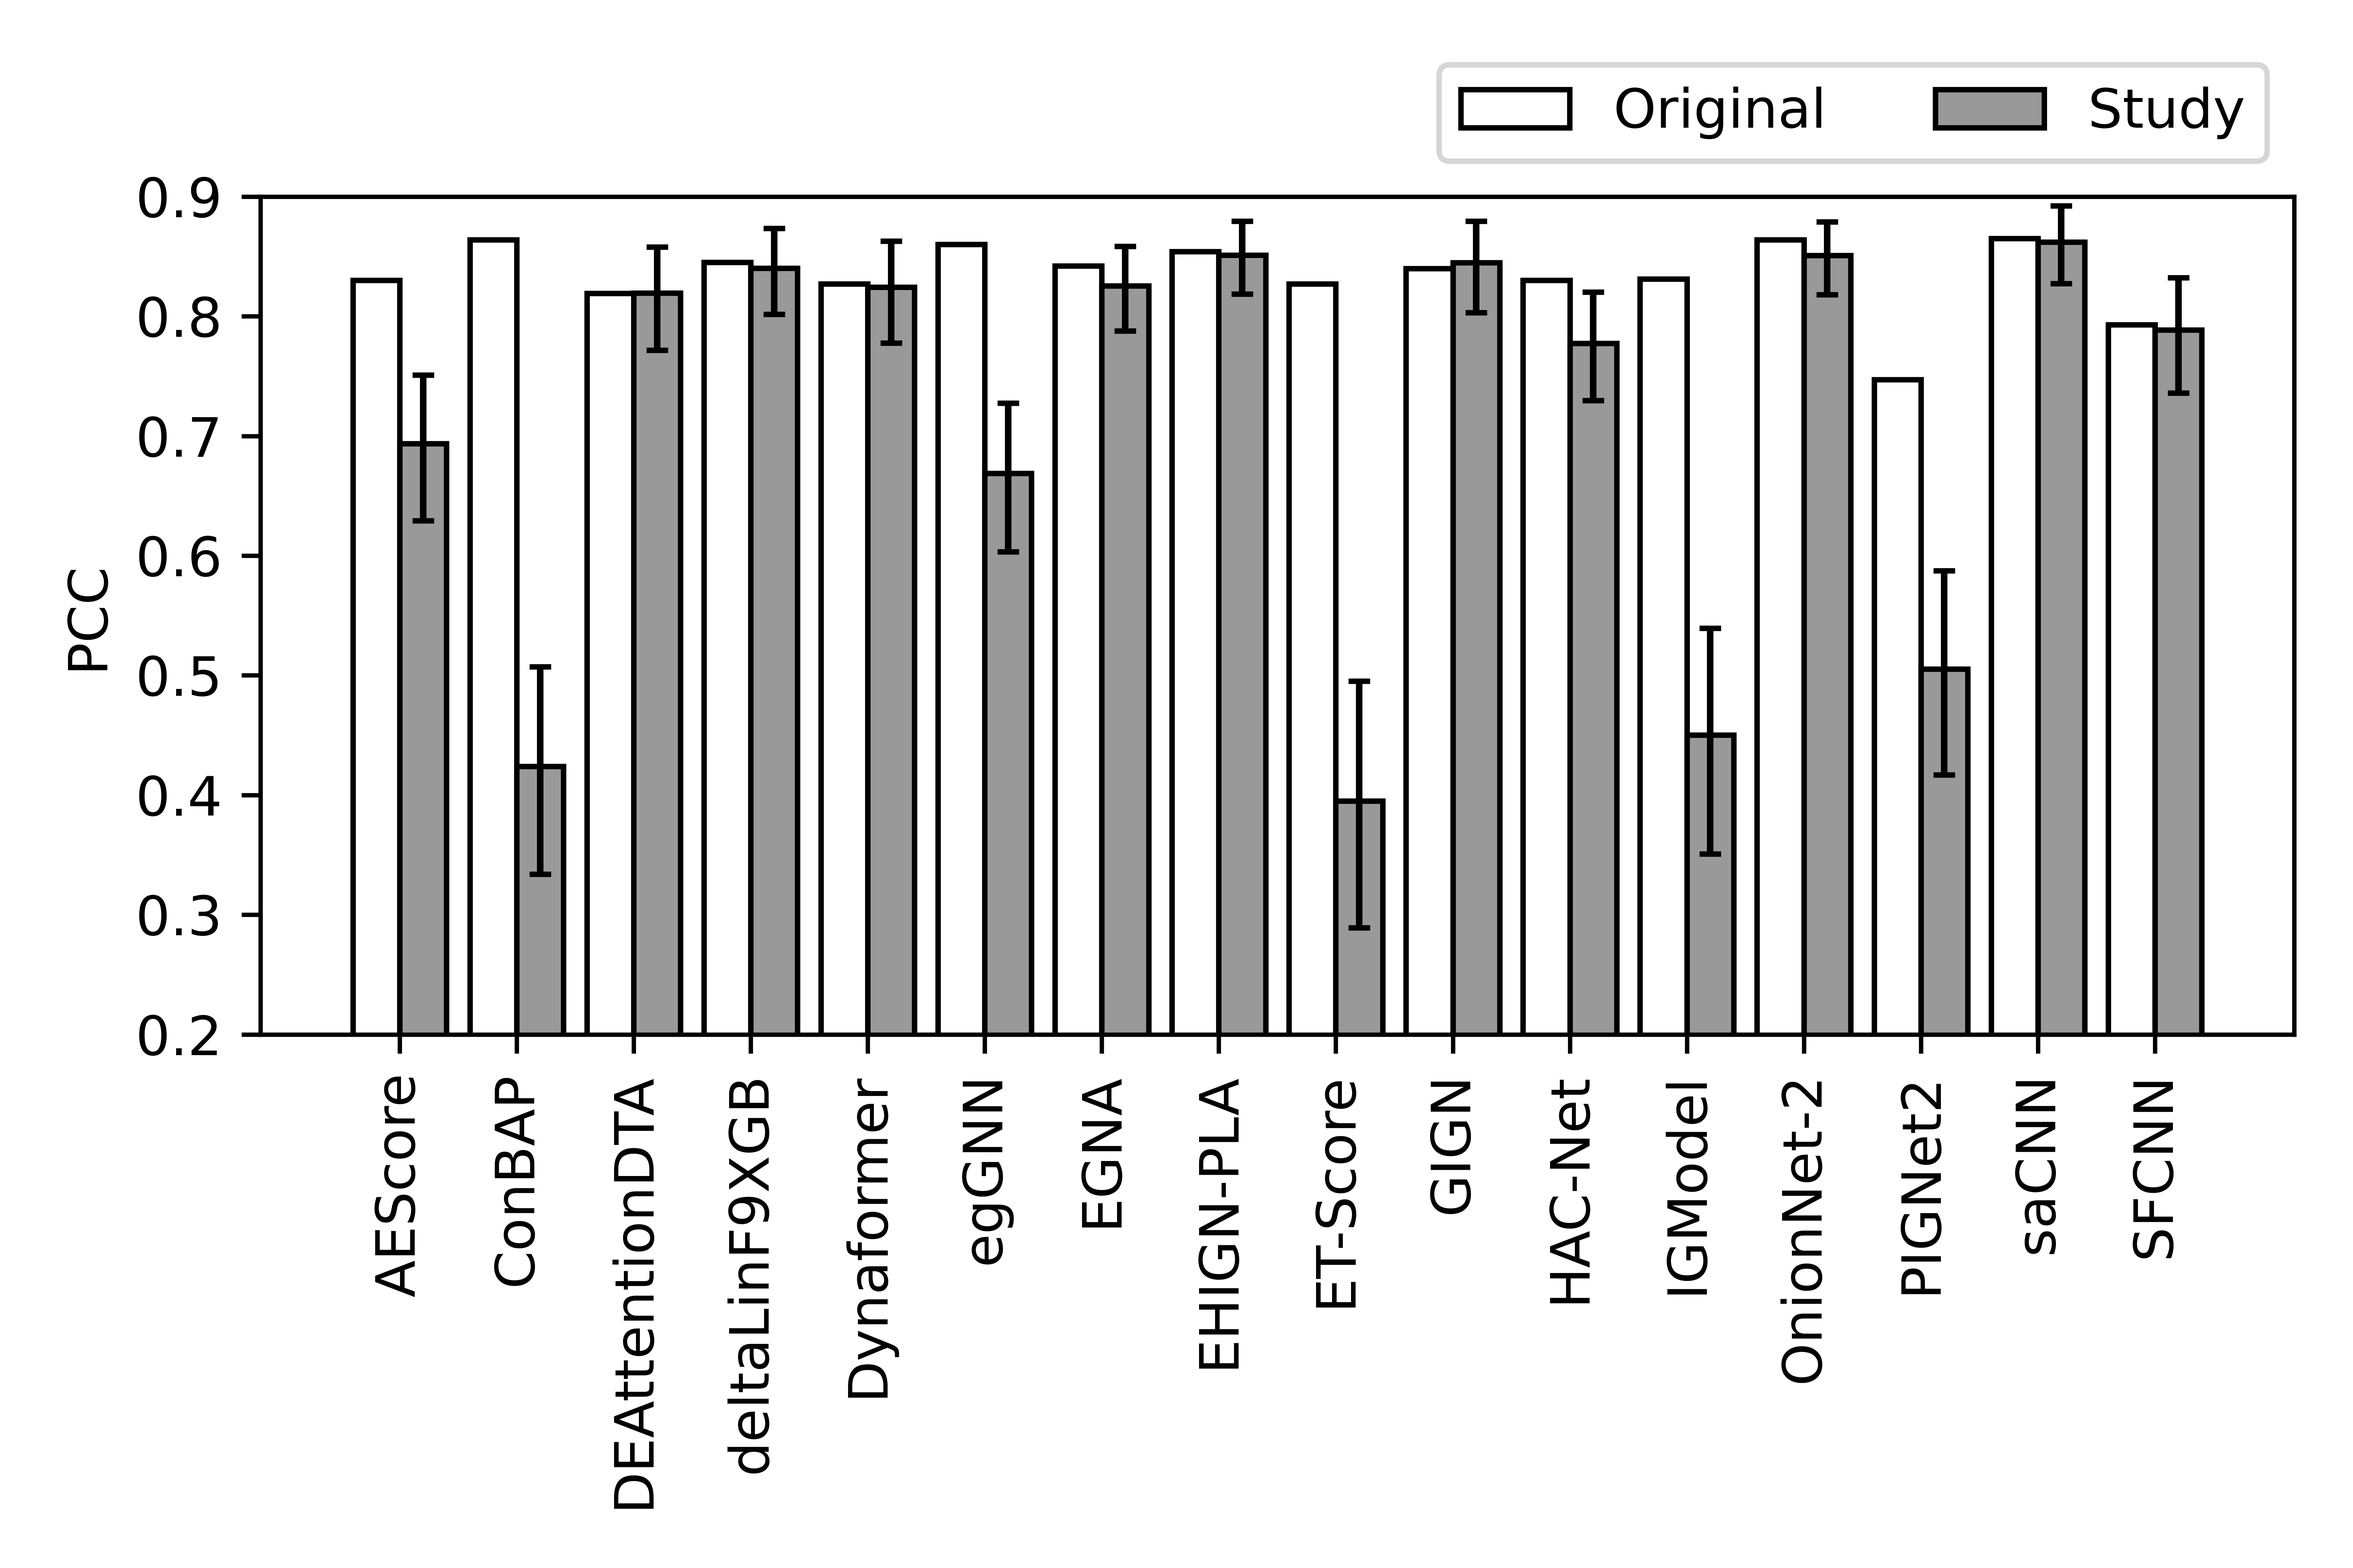
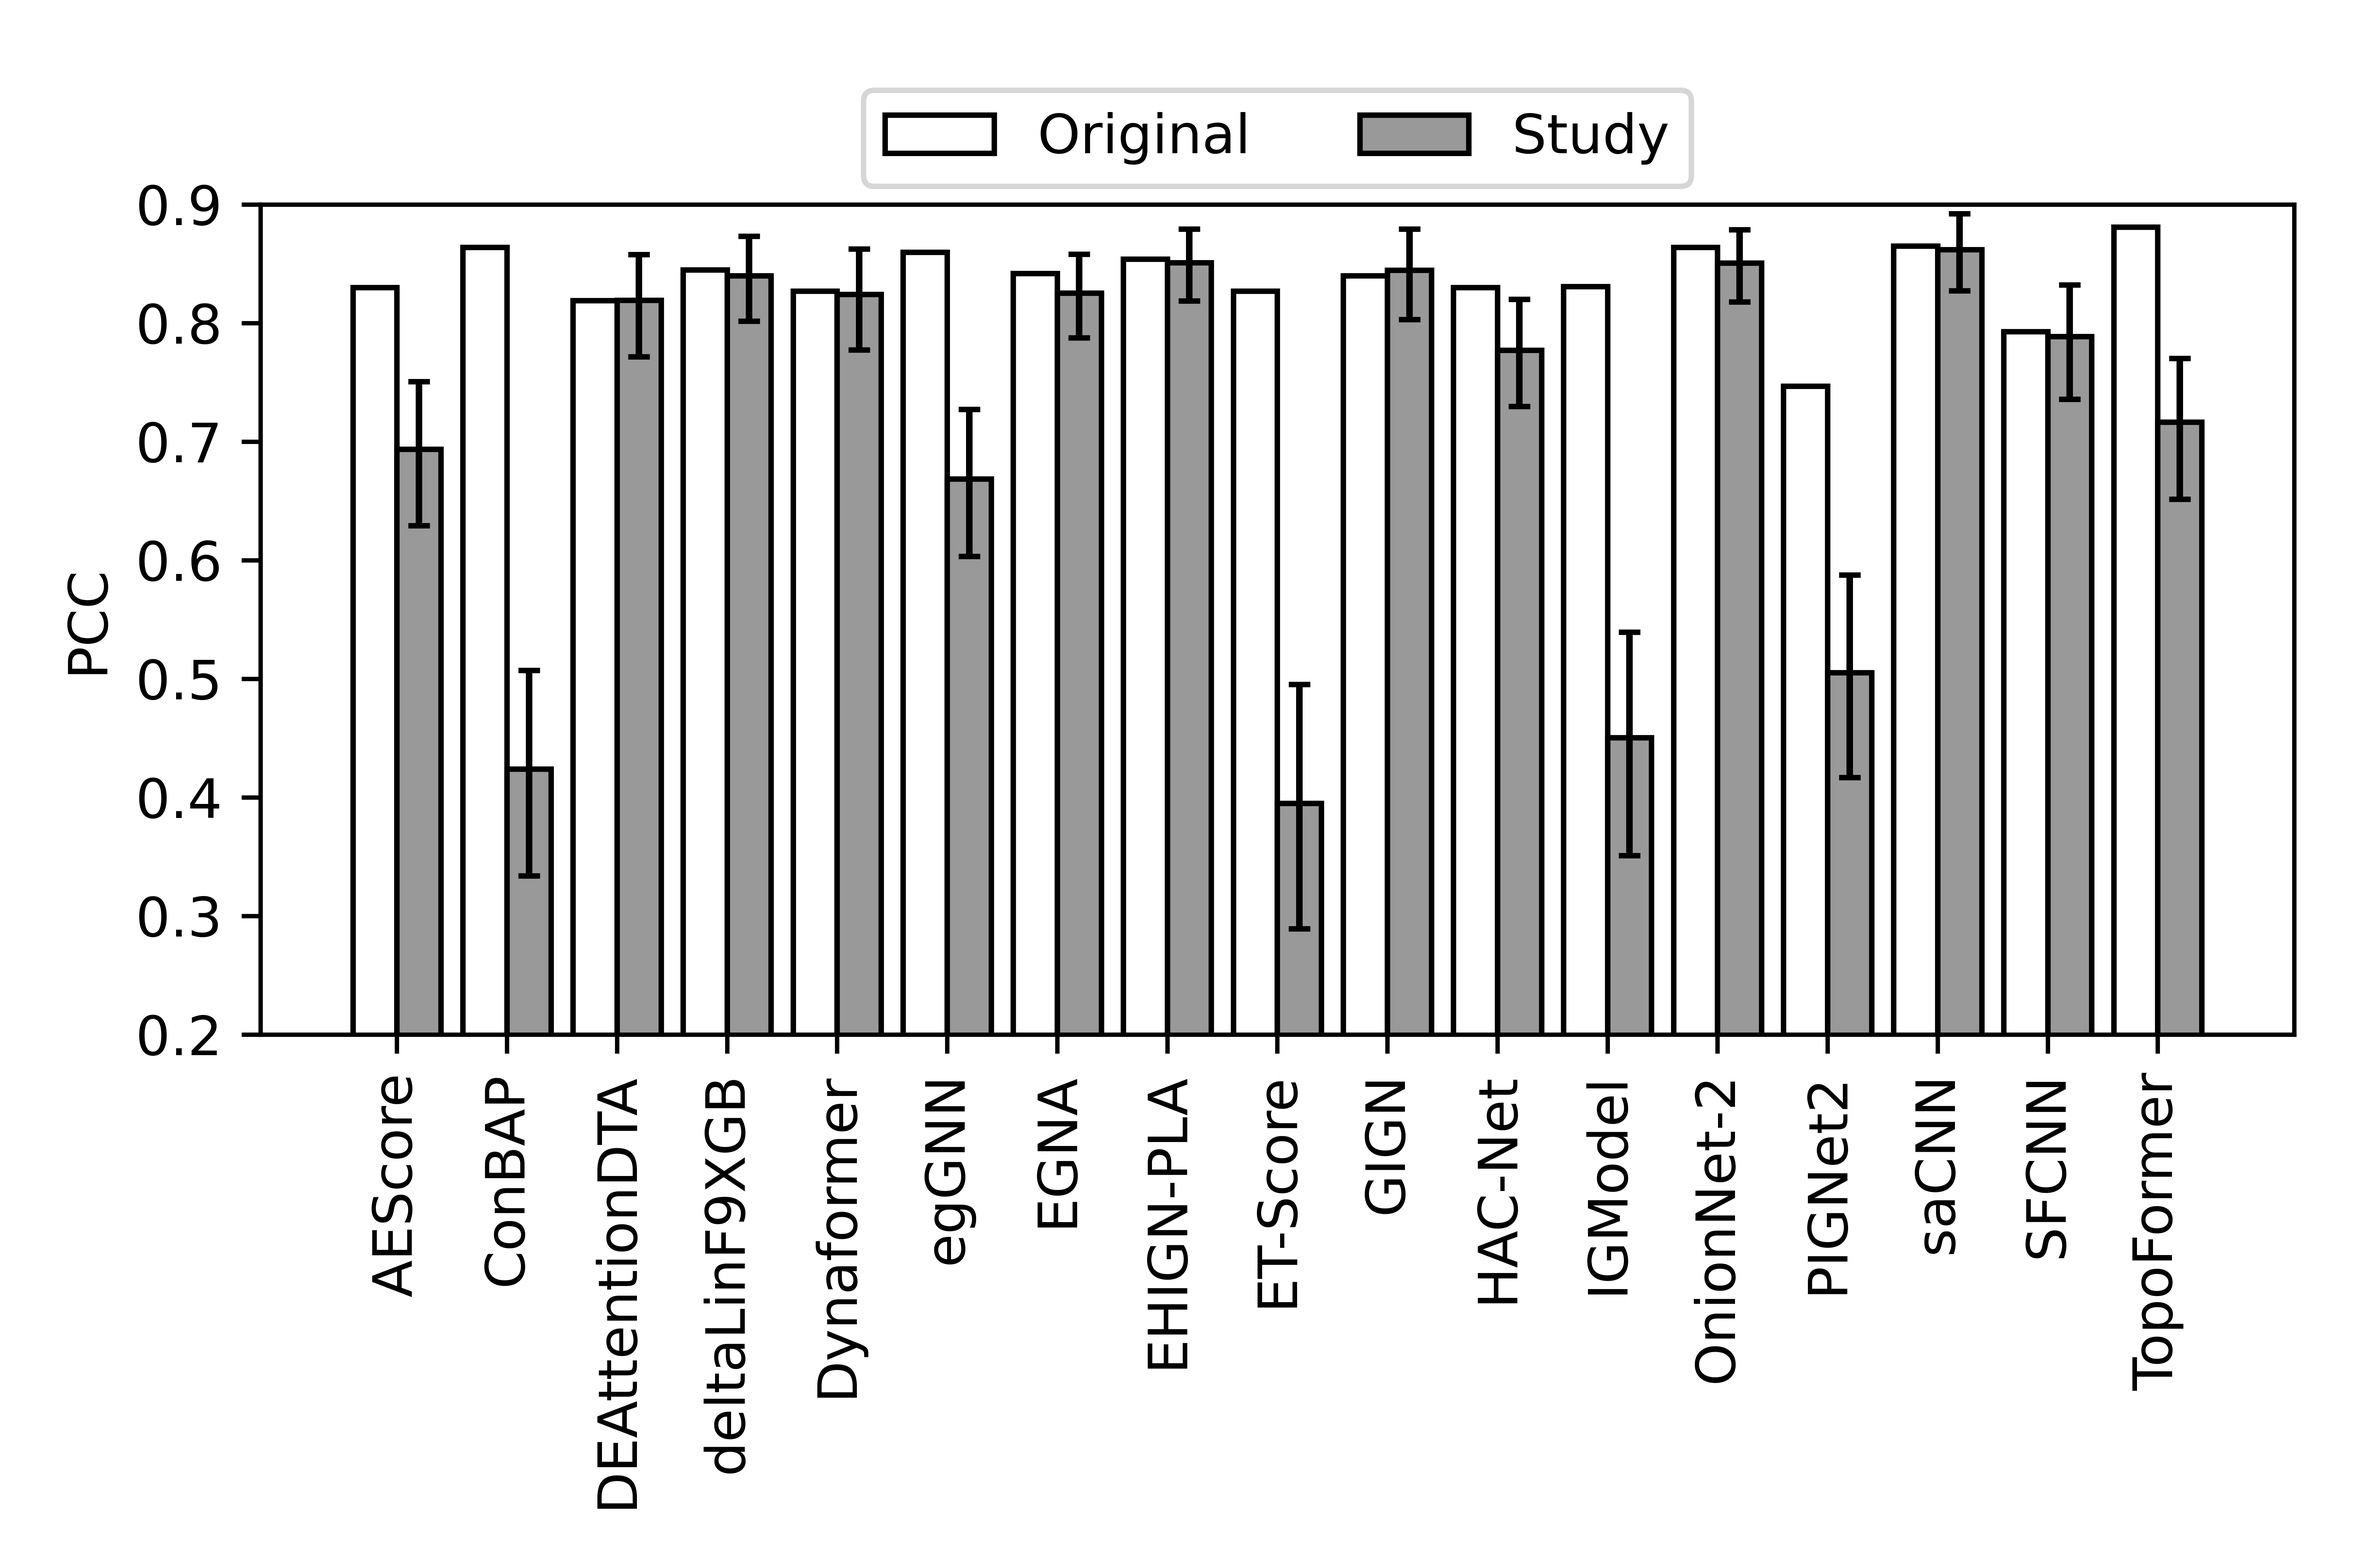
Updated plotting and analysis scripts

diff --git a/analysis/performance_plot.py b/analysis/performance_plot.py
@@ -11,7 +11,7 @@ from scipy import stats
 out_dir = '/mnt/research/woldring_lab/Members/Eaves/PLBAP_Reproducibility/analysis/results'
 preds_csv = os.path.join(out_dir, 'performance_bootstrap_summary.csv')
 # models = ['AEScore', 'ConBAP', 'DEAttentionDTA', 'Dynaformer', 'egGNN', 'EGNA', 'EHIGN-PLA', 'ET-Score', 'GIGN', 'HAC-Net', 'IGModel', 'OnionNet-2', 'PIGNet2', 'SFCNN']
-models = ['AEScore', 'ConBAP', 'DEAttentionDTA', 'deltaLinF9XGB', 'Dynaformer', 'egGNN', 'EGNA', 'EHIGN-PLA', 'ET-Score', 'GIGN', 'HAC-Net', 'IGModel', 'OnionNet-2', 'PIGNet2', 'saCNN', 'SFCNN']
+models = ['AEScore', 'ConBAP', 'DEAttentionDTA', 'deltaLinF9XGB', 'Dynaformer', 'egGNN', 'EGNA', 'EHIGN-PLA', 'ET-Score', 'GIGN', 'HAC-Net', 'IGModel', 'OnionNet-2', 'PIGNet2', 'saCNN', 'SFCNN', 'TopoFormer']
 hue_order = ['Original', 'Study']
 palette = ['w', '0.6']
 # palette = 'colorblind'
@@ -32,7 +32,8 @@ reported_pcc = [
     {'Model': 'OnionNet-2', 'PCC': 0.864},
     {'Model': 'PIGNet2', 'PCC': 0.747},
     {'Model': 'saCNN', 'PCC': 0.865},
-    {'Model': 'SFCNN', 'PCC': 0.793}
+    {'Model': 'SFCNN', 'PCC': 0.793},
+    {'Model': 'TopoFormer', 'PCC': 0.881}
 ]
 
 def add_ci_errorbars_for_hue(ax, ci_df, x_order, hue_order, hue_level, y_col='PCC', lo_col='ci_lo', hi_col='ci_hi'):
@@ -98,7 +99,7 @@ g = sns.barplot(
 plt.xlabel('')
 plt.xticks(rotation=90)
 plt.ylim((0.2,0.9))
-plt.legend(title='', ncol=2, loc='lower right', bbox_to_anchor=(1, 1.01))
+plt.legend(title='', ncol=2, loc='center', bbox_to_anchor=(0.5, 1.08))
 
 add_ci_errorbars_for_hue(ax=g, ci_df=pred_df, x_order=models, hue_order=hue_order,
     hue_level='Study', y_col='PCC', lo_col='ci_lo', hi_col='ci_hi'

diff --git a/analysis/compute_time_plot.py b/analysis/compute_time_plot.py
@@ -11,7 +11,7 @@ import matplotlib.cm as cm
 import matplotlib.colors as mcolors
 
 out_dir = '/mnt/research/woldring_lab/Members/Eaves/PLBAP_Reproducibility/analysis/results'
-performance_data = '/mnt/research/woldring_lab/Members/Eaves/PLBAP_Reproducibility/2026-03-24_CASF2016_AllModels_PredsAndTimes.csv'
+performance_data = '/mnt/research/woldring_lab/Members/Eaves/PLBAP_Reproducibility/2026-04-02_CASF2016_AllModels_PredsAndTimes.csv'
 models = ['AEScore', 'ConBAP', 'DEAttentionDTA', 'deltaLinF9XGB', 'Dynaformer', 'egGNN', 'EGNA', 'EHIGN-PLA', 'ET-Score', 'GIGN', 'HAC-Net', 'IGModel', 'OnionNet-2', 'PIGNet2', 'saCNN', 'SFCNN']
 rep_models = ['DEAttentionDTA', 'deltaLinF9XGB', 'Dynaformer', 'EGNA', 'EHIGN-PLA', 'GIGN', 'OnionNet-2', 'saCNN', 'SFCNN']
 palette = ['0.7', 'w']
@@ -84,7 +84,7 @@ fig, ax = plt.subplots(figsize=(8,4))
 rep_df = pred_df[pred_df['Status'] == 'Reproduced']
 
 norm = mcolors.Normalize(vmin=rep_df['Reported PCC'].min(), vmax=rep_df['Reported PCC'].max())
-mapper = cm.ScalarMappable(norm=norm, cmap='viridis')
+mapper = cm.ScalarMappable(norm=norm, cmap='binary')
 model_colors = [mapper.to_rgba(rep_df[rep_df['Model'] == m]['Reported PCC'].values[0]) for m in rep_models]
 
 g = sns.violinplot(data=rep_df, x='Model', y='t_tot_s', order=rep_models, hue='Reported PCC', log_scale=10, density_norm='width', linecolor='k', palette=model_colors, legend=False)
@@ -96,4 +96,4 @@ cbar = fig.colorbar(mapper, ax=ax)
 cbar.set_label('Reported PCC')
 
 plt.tight_layout()
-plt.savefig(f'{out_dir}/compute_time-ReproducedOnly-PCCcolor.png', dpi=1200)
+plt.savefig(f'{out_dir}/compute_time-ReproducedOnly-PCC-BW.png', dpi=1200)

diff --git a/analysis/aggregate_results.py b/analysis/aggregate_results.py
@@ -4,7 +4,7 @@ import os
 
 preds_dir = '/mnt/research/woldring_lab/Members/Eaves/PLBAP_Reproducibility/PLBAP_results'
 
-models = ['AEScore', 'ConBAP', 'DEAttentionDTA', 'delta_LinF9_XGB', 'Dynaformer', 'egGNN', 'EGNA', 'EHIGN-PLA', 'ET-Score', 'GIGN', 'HAC-Net', 'IGModel', 'OnionNet-2', 'PIGNet2', 'saCNN', 'SFCNN']
+models = ['AEScore', 'ConBAP', 'DEAttentionDTA', 'delta_LinF9_XGB', 'Dynaformer', 'egGNN', 'EGNA', 'EHIGN-PLA', 'ET-Score', 'GIGN', 'HAC-Net', 'IGModel', 'OnionNet-2', 'PIGNet2', 'saCNN', 'SFCNN', 'TopoFormer']
 pdbid_cols = ['pdb_id'] # will change to 'pdbid'
 inf_t_cols = ['time_inference_s', 'time_inf_s'] # will change to 't_inf_s'
 prep_t_cols = ['time_featurize_s'] # will change to 't_prep_s'
@@ -73,4 +73,4 @@ true_df.rename(columns={'-logKd/Ki': 'pK_true'}, inplace=True)
 df = pd.concat(df_list)
 df = df.merge(true_df, how='left', on='pdbid')
 
-df.to_csv('/mnt/research/woldring_lab/Members/Eaves/PLBAP_Reproducibility/2026-03-30_CASF2016_AllModels_PredsAndTimes.csv', index=False)
+df.to_csv('/mnt/research/woldring_lab/Members/Eaves/PLBAP_Reproducibility/2026-04-02_CASF2016_AllModels_PredsAndTimes.csv', index=False)

diff --git a/analysis/bootstrap_performance.py b/analysis/bootstrap_performance.py
@@ -9,7 +9,7 @@ import seaborn as sns
 from scipy import stats
 
 
-performance_data = '/mnt/research/woldring_lab/Members/Eaves/PLBAP_Reproducibility/2026-03-30_CASF2016_AllModels_PredsAndTimes.csv'
+performance_data = '/mnt/research/woldring_lab/Members/Eaves/PLBAP_Reproducibility/2026-04-02_CASF2016_AllModels_PredsAndTimes.csv'
 out_dir = '/mnt/research/woldring_lab/Members/Eaves/PLBAP_Reproducibility/analysis/results'
 os.makedirs(out_dir, exist_ok=True)
 
@@ -18,7 +18,7 @@ seed = 42
 ci_alpha = 0.05
 matplotlib.rcParams.update({'font.size': 12})
 
-models = ['AEScore', 'ConBAP', 'DEAttentionDTA', 'deltaLinF9XGB', 'Dynaformer', 'egGNN', 'EGNA', 'EHIGN-PLA', 'ET-Score', 'GIGN', 'HAC-Net', 'IGModel', 'OnionNet-2', 'PIGNet2', 'saCNN', 'SFCNN']
+models = ['AEScore', 'ConBAP', 'DEAttentionDTA', 'deltaLinF9XGB', 'Dynaformer', 'egGNN', 'EGNA', 'EHIGN-PLA', 'ET-Score', 'GIGN', 'HAC-Net', 'IGModel', 'OnionNet-2', 'PIGNet2', 'saCNN', 'SFCNN', 'TopoFormer']
 
 df = pd.read_csv(performance_data)
 df['pdbid'] = df['pdbid'].astype(str).str.lower().str.strip()
